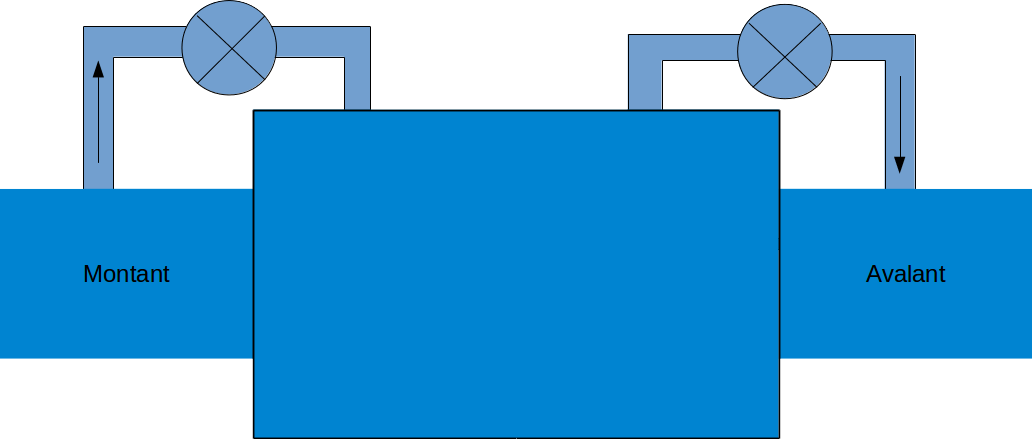
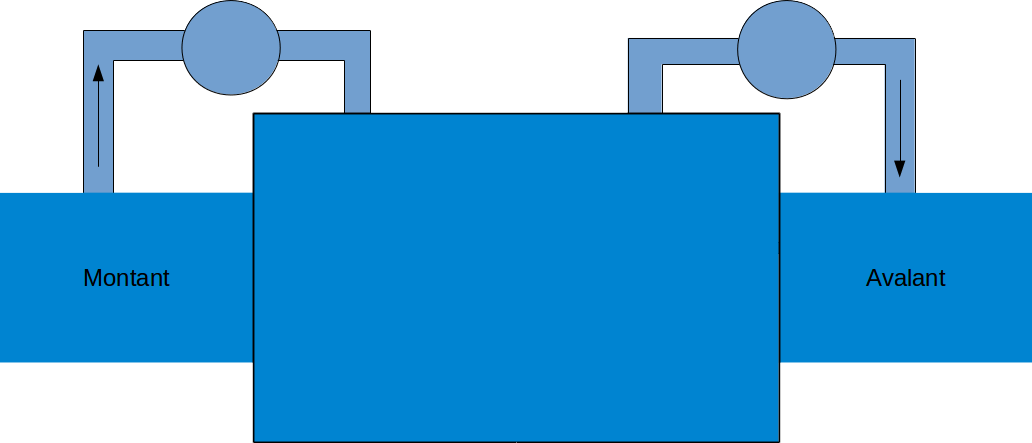
Anime vanne

diff --git a/mainwindow.cpp b/mainwindow.cpp
@@ -51,6 +51,11 @@ MainWindow::MainWindow(QWidget *parent) :
             &ecl, SLOT(ouvertureVanneAvalant()));
     connect(ui->vanneAvalantFerm, SIGNAL(clicked()),
             &ecl, SLOT(fermetureVanneAvalant()));
+    connect(ecl.vanne_haut, SIGNAL(signaletat(int)),
+            this, SLOT(montantVanne(int)));
+    connect(ecl.vanne_bas, SIGNAL(signaletat(int)),
+            this, SLOT(avalantVanne(int)));
+
 
     // Connect niveau eau
     connect(&ecl, SIGNAL(newNivEau(int)),this, SLOT(setWaterLevel(int)));
@@ -119,6 +124,42 @@ void MainWindow::montantDoor(int position, int etat)
 
     ui->progressPorteMontant->setValue(position);
     ui->progressPorteMontant->show();
+}
+
+void MainWindow::montantVanne(int etat)
+{
+    switch(etat)
+    {
+        case OUVERTE:
+            ui->vanneMontant->setStyleSheet("background-color: none;");
+            break;
+        case FERME:
+            ui->vanneMontant->setStyleSheet("background-color: black;");
+                      cout << etat << endl;
+            break;
+        case ALARME:
+            ui->vanneMontant->setStyleSheet("background-color:red;");
+            break;
+    }
+    ui->vanneMontant->show();
+}
+
+void MainWindow::avalantVanne(int etat)
+{
+    switch(etat)
+    {
+        case OUVERTE:
+            ui->vanneAvalant->setStyleSheet("background-color: none;");
+            break;
+        case FERME:
+            ui->vanneAvalant->setStyleSheet("background-color: black;");
+            cout << etat << endl;
+            break;
+        case ALARME:
+            ui->vanneAvalant->setStyleSheet("background-color:red;");
+            break;
+    }
+    ui->vanneAvalant->show();
 }
 
 void MainWindow::setGreenSignalMontant()

diff --git a/mainwindow.h b/mainwindow.h
@@ -23,6 +23,8 @@ private:
 public slots:
     void avalantDoor(int position, int etat);
     void montantDoor(int position, int etat);
+    void montantVanne(int etat);
+    void avalantVanne(int etat);
     void setGreenSignalMontant();
     void setRedSignalMontant();
     void setRedSignalAvalant();

diff --git a/vanne.cpp b/vanne.cpp
@@ -11,8 +11,8 @@ Vanne::Vanne(QObject *parent) :
 
 bool Vanne::simulpanne(void){
    if (qrand() % PANNE_FREQMOYENNE == 0){
-       etat = ALARME;
-       return true;
+    //   etat = ALARME;
+     //  return true;
    }
 
    return false;
